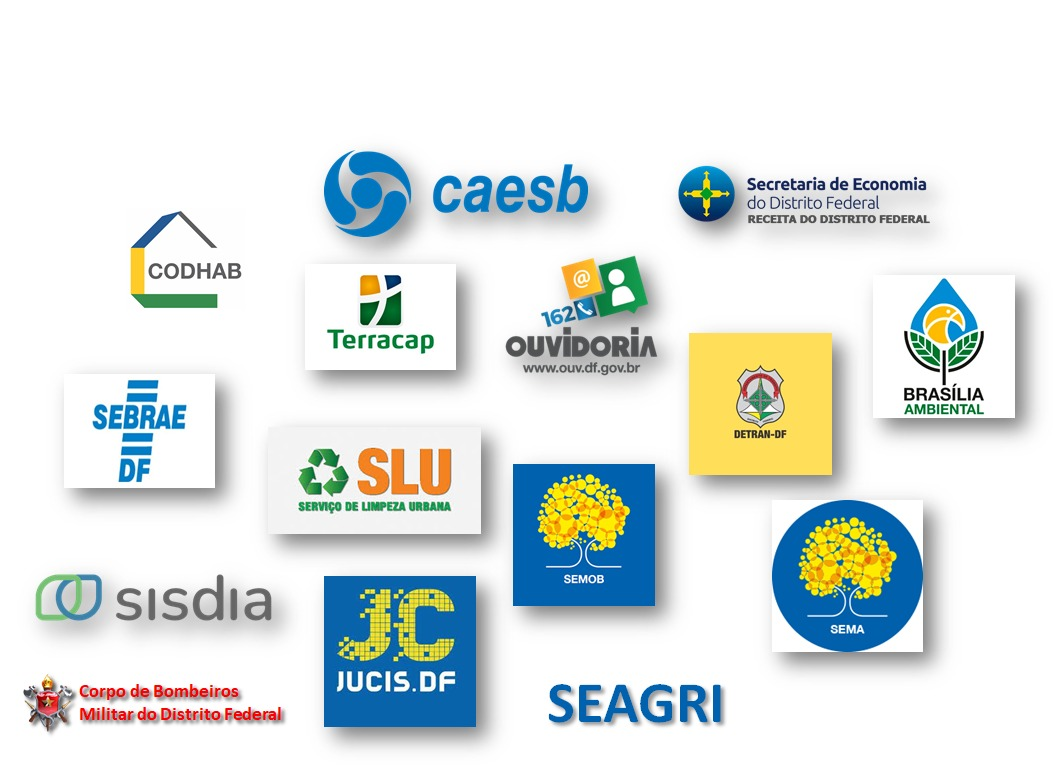
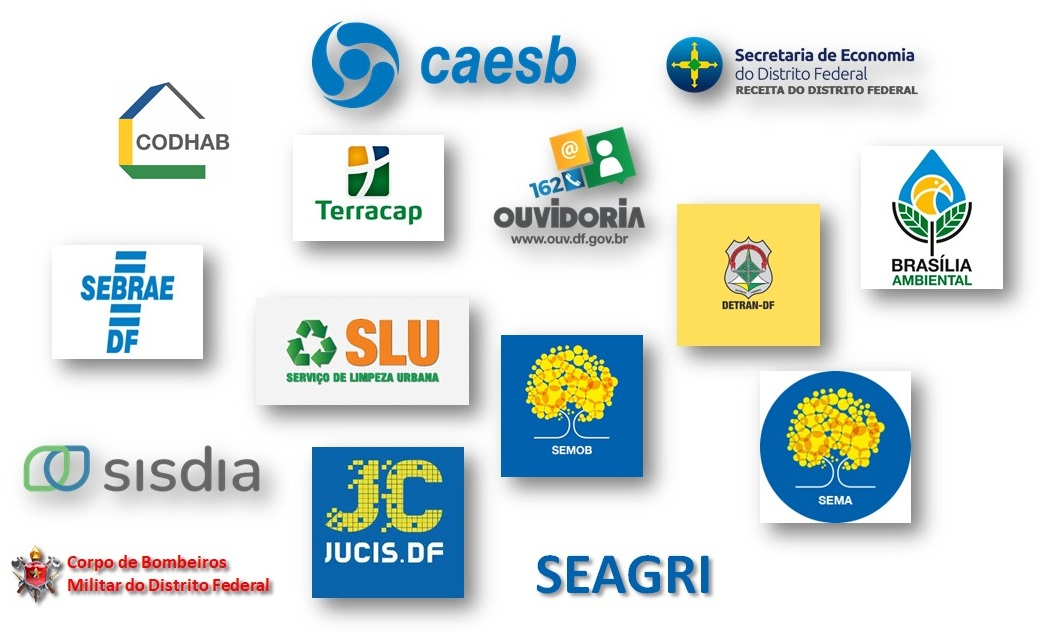
Cores da identidade, participantes e formação de texto nas abas

diff --git a/index.html b/index.html
@@ -79,8 +79,8 @@
               <li class="lista-lateral"><a
                   href="https://www.ibram.df.gov.br/observatorio-da-natureza-e-desempenho-ambiental-onda/" target="_blank" rel="noopener noreferrer">ONDA
                   IBRAM</a></li>
+                  <li class="lista-lateral"><a href="https://www.caesb.df.gov.br/" target="_blank" rel="noopener noreferrer">CAESB</a></li>
               <li class="lista-lateral"><a href="https://sisdia.df.gov.br/home/" target="_blank" rel="noopener noreferrer">SISDIA</a></li>
-              <li class="lista-lateral"><a href="https://www.caesb.df.gov.br/" target="_blank" rel="noopener noreferrer">CAESB</a></li>
             </ul>
           </div> <!-- end wrap-section-right  -->
         </div> <!-- end wrap-inicio  -->
@@ -99,6 +99,8 @@
             <div class="apoio"> <img src="./assets/logo/sema.png" alt="SEMA"> </div>
             <div class="apoio"> <img src="./assets/logo/slu.jpg" alt="SLU"> </div>
             <div class="apoio"> <img src="./assets/logo/terracap.jpg" alt="TERRACAP"> </div>
+            <div class="apoio"> <img src="./assets/logo/SEAGRI.png" alt="SEAGRI"> </div>
+            <div class="apoio"> <img src="./assets/logo/bombeiros-df.png" alt="BOMBEIROS"> </div>
           </div> <!-- wrap-apoio -->
         </div> <!-- orgaos-participantes -->
 
@@ -175,7 +177,7 @@
             <details>
               <summary>Governança da IDE / DF</summary>
               <div class="lista-sumario">
-                A IDE/DF é formada por:
+                <span>A IDE/DF é formada por:</span>
                 <ul>
                     <li>
                       <p>Estrutura Tecnológica</p>
@@ -248,8 +250,8 @@
       <div class="section">
         <div class="wrap-legislacao">
           <div class="sumario">
-            <details>
-              <summary>Legislação</summary>
+            <!-- <details> -->
+              <!-- <summary>Legislação</summary> -->
               <div class="lista-sumario">
                 <ul>
                   <li><a href="#">DECRETO Nº 40.554</a>, DE 23 DE MARÇO DE 2020 - Dispõe sobre a instituição da
@@ -264,8 +266,8 @@
                     da Infraestrutura de Dados Espaciais do Distrito Federal – IDE/DF.</li>
                 </ul>
               </div> <!-- end lista-sumario -->
-            </details>
-          </div> <!-- end sumario -->
+            <!-- </details> -->
+          <!-- </div> <!-- end sumario -->
         </div> <!-- end wrap-legislacao -->
     </section>
 
@@ -299,9 +301,9 @@
             <details>
               <summary>Governança da IDE / DF</summary>
               <div class="lista-sumario">
-                A IDE/DF é formada por:
+                <span> IDE/DF é formada por:</span>
                 <ul>
-                    <li>
+                  <li>
                       <p>Estrutura Tecnológica</p>
                       A estrutura tecnológica da IDE/DF é constituída por:
                       Conjunto de bancos e servidores de dados, geoserviços e de metadados de cada entidade
@@ -369,55 +371,60 @@
             <details>
               <summary>Grupo técnico executivo</summary>
               <div class="lista-sumario">
-                MARCO LEGAL: Instituído pela Resolução nº 2 do CGEE/DF.
-                <br>
+                <span>MARCO LEGAL: </span>Instituído pela Resolução nº 2 do CGEE/DF.
                 <p>Grupo técnico executivo de organização de imagens aéreas do território do Distrito Federal</p>
-                <p>OBJETIVO: identificar as imagens de satélite, fotografias aéreas, 
+                <span>Objetivo:</span> identificar as imagens de satélite, fotografias aéreas, 
                   nuvens de pontos e outros arquivos matriciais relacionados existentes 
                   nos diferentes órgãos do Governo do Distrito Federal, centralizá-los 
-                  em um repositório digital e disponibilizá-las no âmbito da IDE/DF.</p>
-                INTEGRANTES:
+                  em um repositório digital e disponibilizá-las no âmbito da IDE/DF.
+                <p>Integrantes:</p>
                 <ul>
                     <li>
                       <p>Secretaria de Estado de Desenvolvimento Urbano e Habitação - SEDUH</p>
-                      Leonardo Rodrigues de Deus, matrícula n° 269.898-6, como titular;
-                      Alexandre Sauma da Silva, matrícula n° 275.285-9, como suplente;
+                      - Alexandre Sauma da Silva, matrícula n° 275.285-9, como suplente;
+                      <br>
+                      - Leonardo Rodrigues de Deus, matrícula n° 269.898-6, como titular;
                     </li>
                     <li>
-                      <p> - SEDUH</p>
-                      Guilherme Antônio Viana Ferreira Junior, matrícula n° 0277309-0, como titular;
-                      Josebias Tod Santos, matrícula n° 0278782-2, como suplente;
+                      <p>Secretaria de Estado de Economia do Distrito Federal - SEEC</p>
+                      - Guilherme Antônio Viana Ferreira Junior, matrícula n° 0277309-0, como titular;
+                      <bR>
+                      - Josebias Tod Santos, matrícula n° 0278782-2, como suplente;
                     </li>
                     <li>
                       <p>Secretaria de Estado de Meio Ambiente - SEMA</p>
-                      Mariana Santos da Silva, matrícula n° 275.145-3, como titular;
-                      Jéssica de Melo Rodrigues, matrícula n° 273.936-4, como suplente;
+                      - Mariana Santos da Silva, matrícula n° 275.145-3, como titular;
+                      <br>
+                      - Jéssica de Melo Rodrigues, matrícula n° 273.936-4, como suplente;
                     </li>
                     <li>
                       <p>Agência Reguladora de Águas e Saneamento - ADASA</p>
-                      Geraldo Alves Barcellos, matrícula n° 172.491-6, como titular;
-                      Welber Ferreira Alves, matrícula n° 198.239-7, como suplente;
+                      - Geraldo Alves Barcellos, matrícula n° 172.491-6, como titular;
+                      <br>
+                      - Welber Ferreira Alves, matrícula n° 198.239-7, como suplente;
                     </li>
                     <li>
                       <p>Companhia Imobiliária de Brasília - TERRACAP</p>
-                      Thiago dos Santos Nascimento, matrícula n° 2375-2, como titular;
-                      Ana Luiza Noce Cerdeira, matrícula n° 2789-8, como suplente;
+                      - Thiago dos Santos Nascimento, matrícula n° 2375-2, como titular;
+                      <br>
+                      - Ana Luiza Noce Cerdeira, matrícula n° 2789-8, como suplente;
                     </li>
                     <li>
                       <p>Companhia de Saneamento Ambiental do Distrito Federa - CAESB</p>
-                      Roberto Souza Borges, matrícula n° 53350-5, como titular;
-                      Carlos Eduardo Machado Pires, matrícula n° 51721-6, como suplente;
+                      - Roberto Souza Borges, matrícula n° 53350-5, como titular;
+                      <br>
+                      - Carlos Eduardo Machado Pires, matrícula n° 51721-6, como suplente;
                     </li>
                     <li>
                       <p>Instituto do Meio Ambiente e dos Recursos Hídricos do Distrito Federal - IBRAM</p>
-                      Guilhermino Silveira Rocha, matrícula n° 1689533-9, como titular;
-                      Luiz Antônio de Souza Aguiar, matrícula n° 264678-1, como suplente;
+                      - Guilhermino Silveira Rocha, matrícula n° 1689533-9, como titular;
+                      <br>
+                      - Luiz Antônio de Souza Aguiar, matrícula n° 264678-1, como suplente;
                     </li>
                     
                   </ul>
+                  <span>Atribuições</span>
                   <ul>
-                    <h3>ATRIBUIÇÕES</h3>
-
                     <li>Levantar, junto aos órgãos do Governo do Distrito Federal, a existência de imagens de satélite, fotografias aéreas, nuvens de pontos e outros arquivos matriciais relacionados do território do Distrito Federal, de qualquer data;</li>
                     <li>Definir local de armazenamento do repositório de imagens da IDE/DF;</li>
                     <li>Especificar os requisitos de hardware e software necessários para o servidor de imagens;</li>
@@ -441,7 +448,7 @@
               <summary>ATA</summary>
               <div class="lista-sumario">
                 <ul>
-                  <p>ATA das reuniões</p>
+                  <span>ATA das reuniões</span>
                   <li><a href="http://" target="_blank" rel="noopener noreferrer">ATA</a> - Reunião 03/08/2021</li>
                   <li><a href="http://" target="_blank" rel="noopener noreferrer">ATA</a> - Reunião 16/08/2021</li>
                   <li><a href="http://" target="_blank" rel="noopener noreferrer">ATA</a> - Reunião 30/08/2021</li>
@@ -460,15 +467,10 @@
                 <details>
                   <summary>1ª Reunião Ordinária - 20/08/2020</summary>
                   <ul>
-                    <li>1ª Reunião Ordinária - 20/08/2020</li>
-                    <li>2ª Reunião Ordinária - 16/09/2020</li>
-                    <li>3ª Reunião Ordinária - 25/09/2020</li>
-                    <li>4ª Reunião Ordinária - 02/10/2020</li>
-                    <li>5ª Reunião Ordinária - 16/10/2020</li>
-                    <li>6ª Reunião Ordinária - 19/11/2020</li>
-                    <li>7ª Reunião Ordinária - 26/11/2020</li>
-                    <li>8ª Reunião Ordinária - 05/04/2021</li>
-                    <li>9ª Reunião Ordinária - 08/07/2021</li>
+                    <span>PAUTA</span>
+                    <li>Situação Atual do Geoportal</li>
+                    <li>IDE/DF</li>
+                    <li>Proposta de arquitetura GIS compartilhada (Hardware, Softwares, Geoserviços)</li>
                   </ul>
                 </details>
 
@@ -610,7 +612,7 @@
 
   <footer>
     <p>Infraestrutura de Dados Espaciais do Distrito Federal IDE-DF</p>
-    <p>Copyright © 2022 Equipe SEDUH-DF</p>
+    <p>Copyright © 2022 Equipe IDE-DF</p>
 
   </footer>
 

diff --git a/style.css b/style.css
@@ -576,12 +576,22 @@ details>ul {
   width: 95%;
   font-size: 1rem;
   line-height: 1.4;
+  font-weight: var(--font-weight-400);
+  color: var(--text-color-h1-2);
 }
-
-.lista-sumario ul li p {
-  margin: 1rem 0;
+.lista-sumario h3 {
+  font-size: 1.1rem;
   font-weight: var(--font-weight-700);
-  font-size: 1.3rem;
+  margin-bottom: .5rem;
+
+}
+.lista-sumario p, .lista-sumario span {
+  margin: 1rem 0;
+  color: var(--text-color-h1-2);
+  font-size: 1.2rem;
+  font-weight: var(--font-weight-700);
+  text-align: left;
+
 }
 
 footer {
